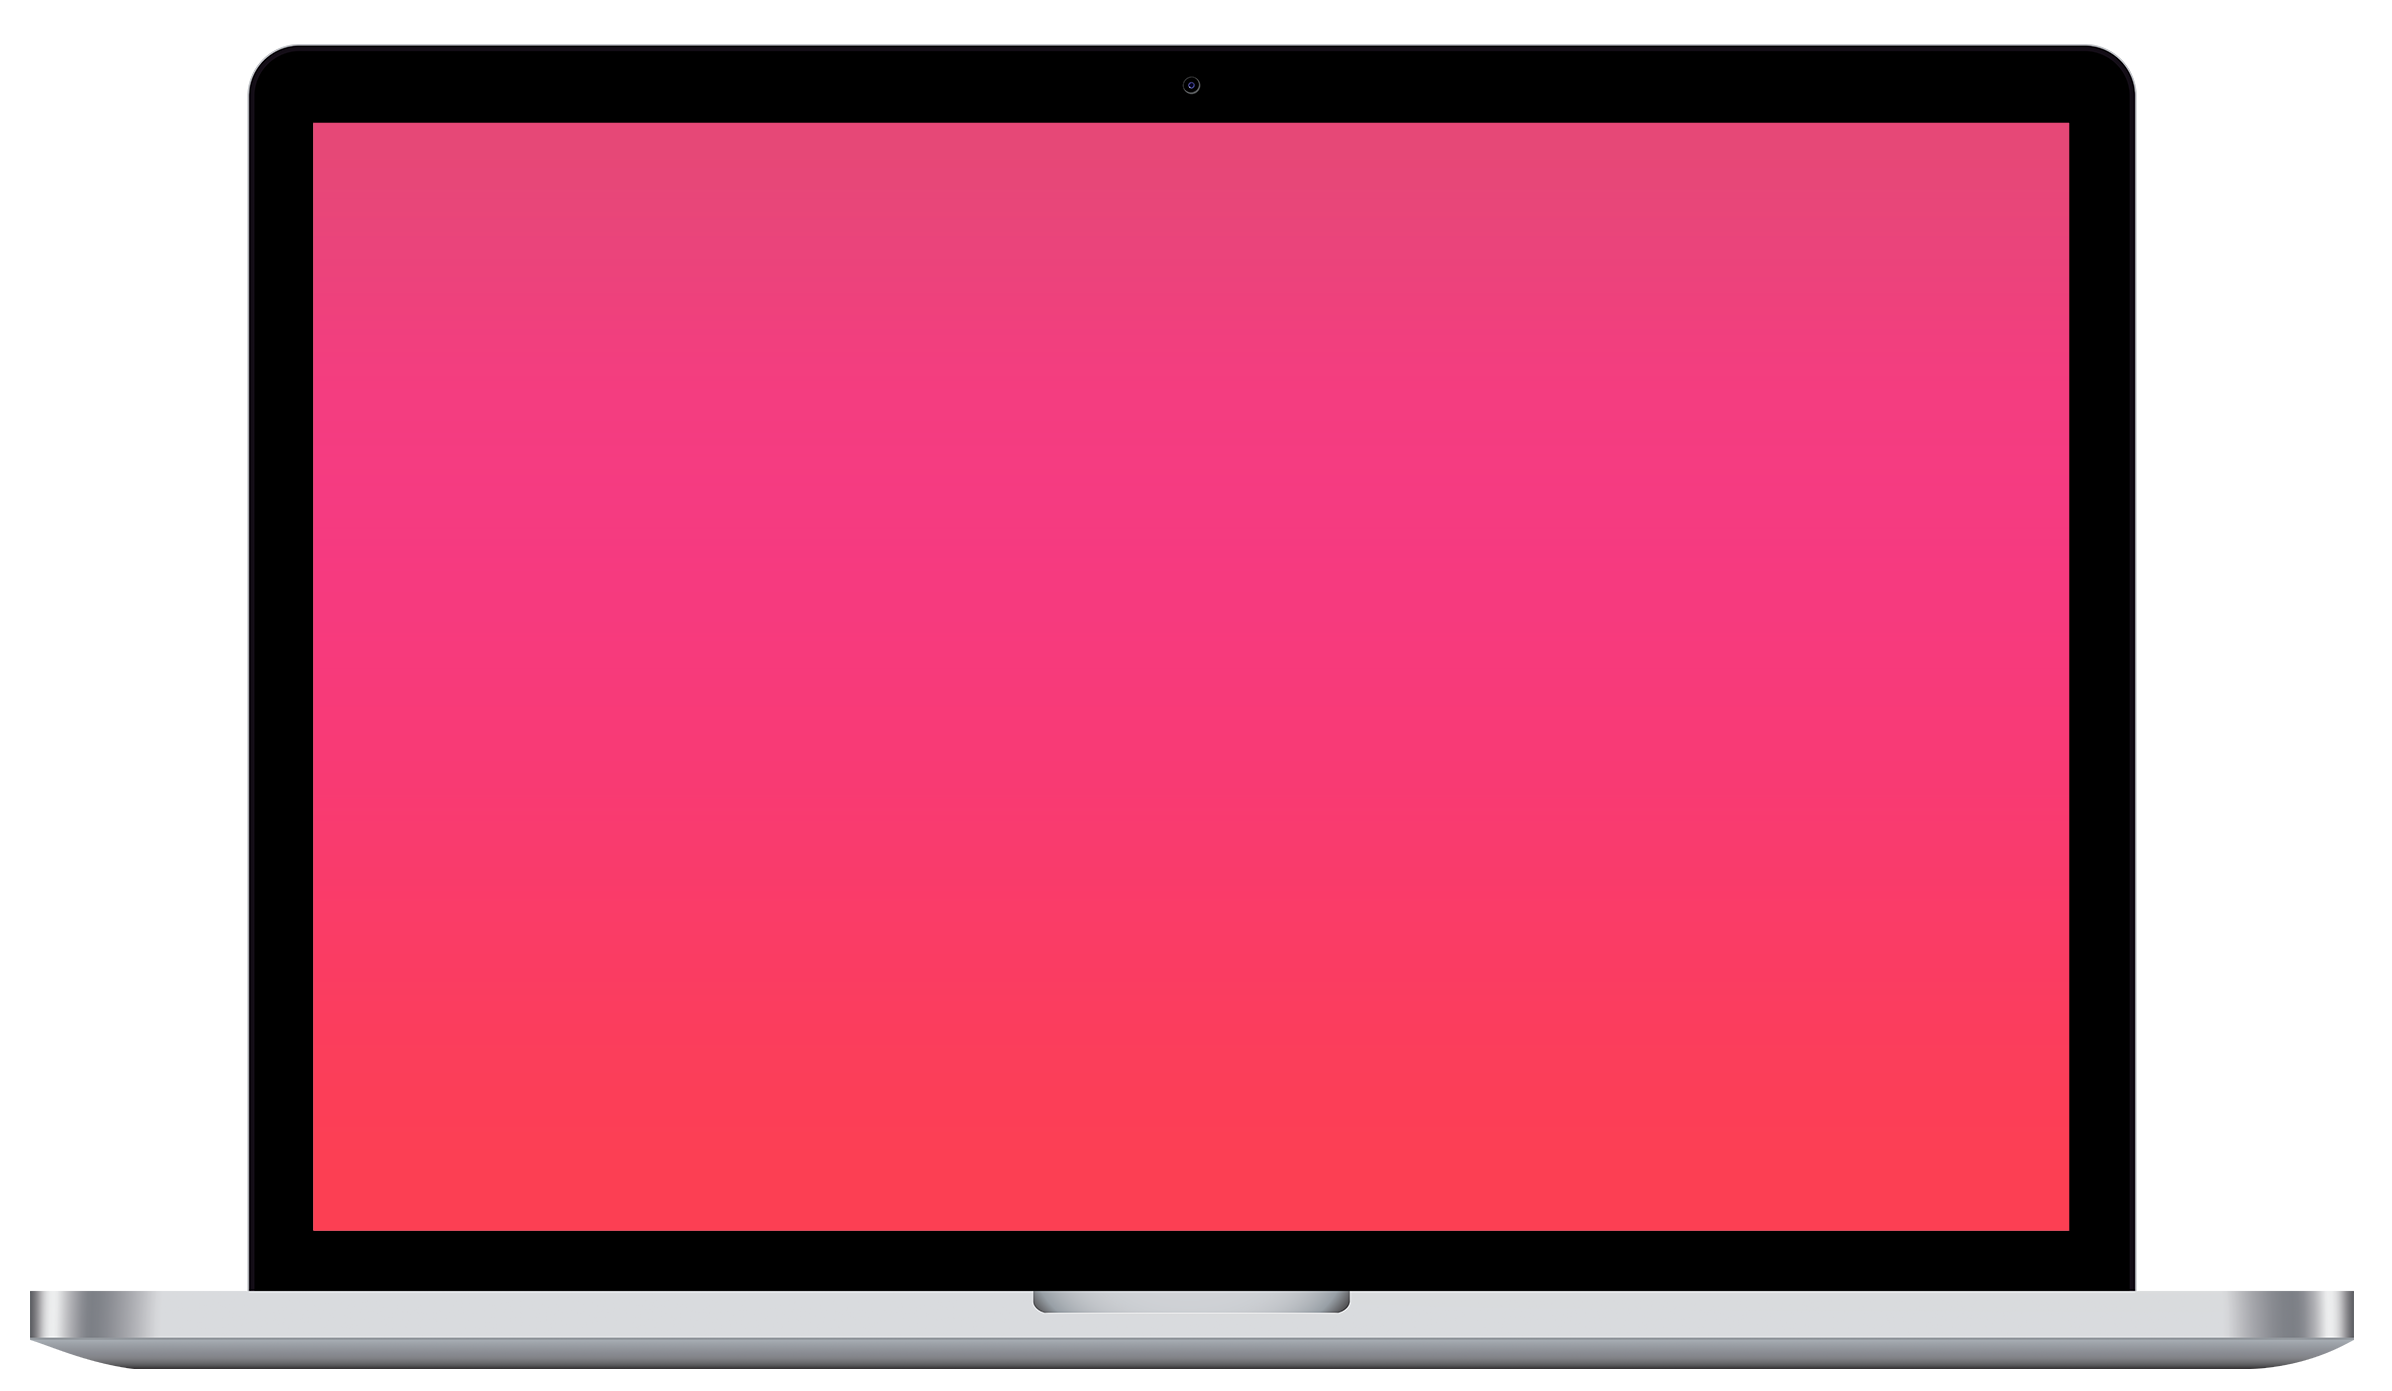
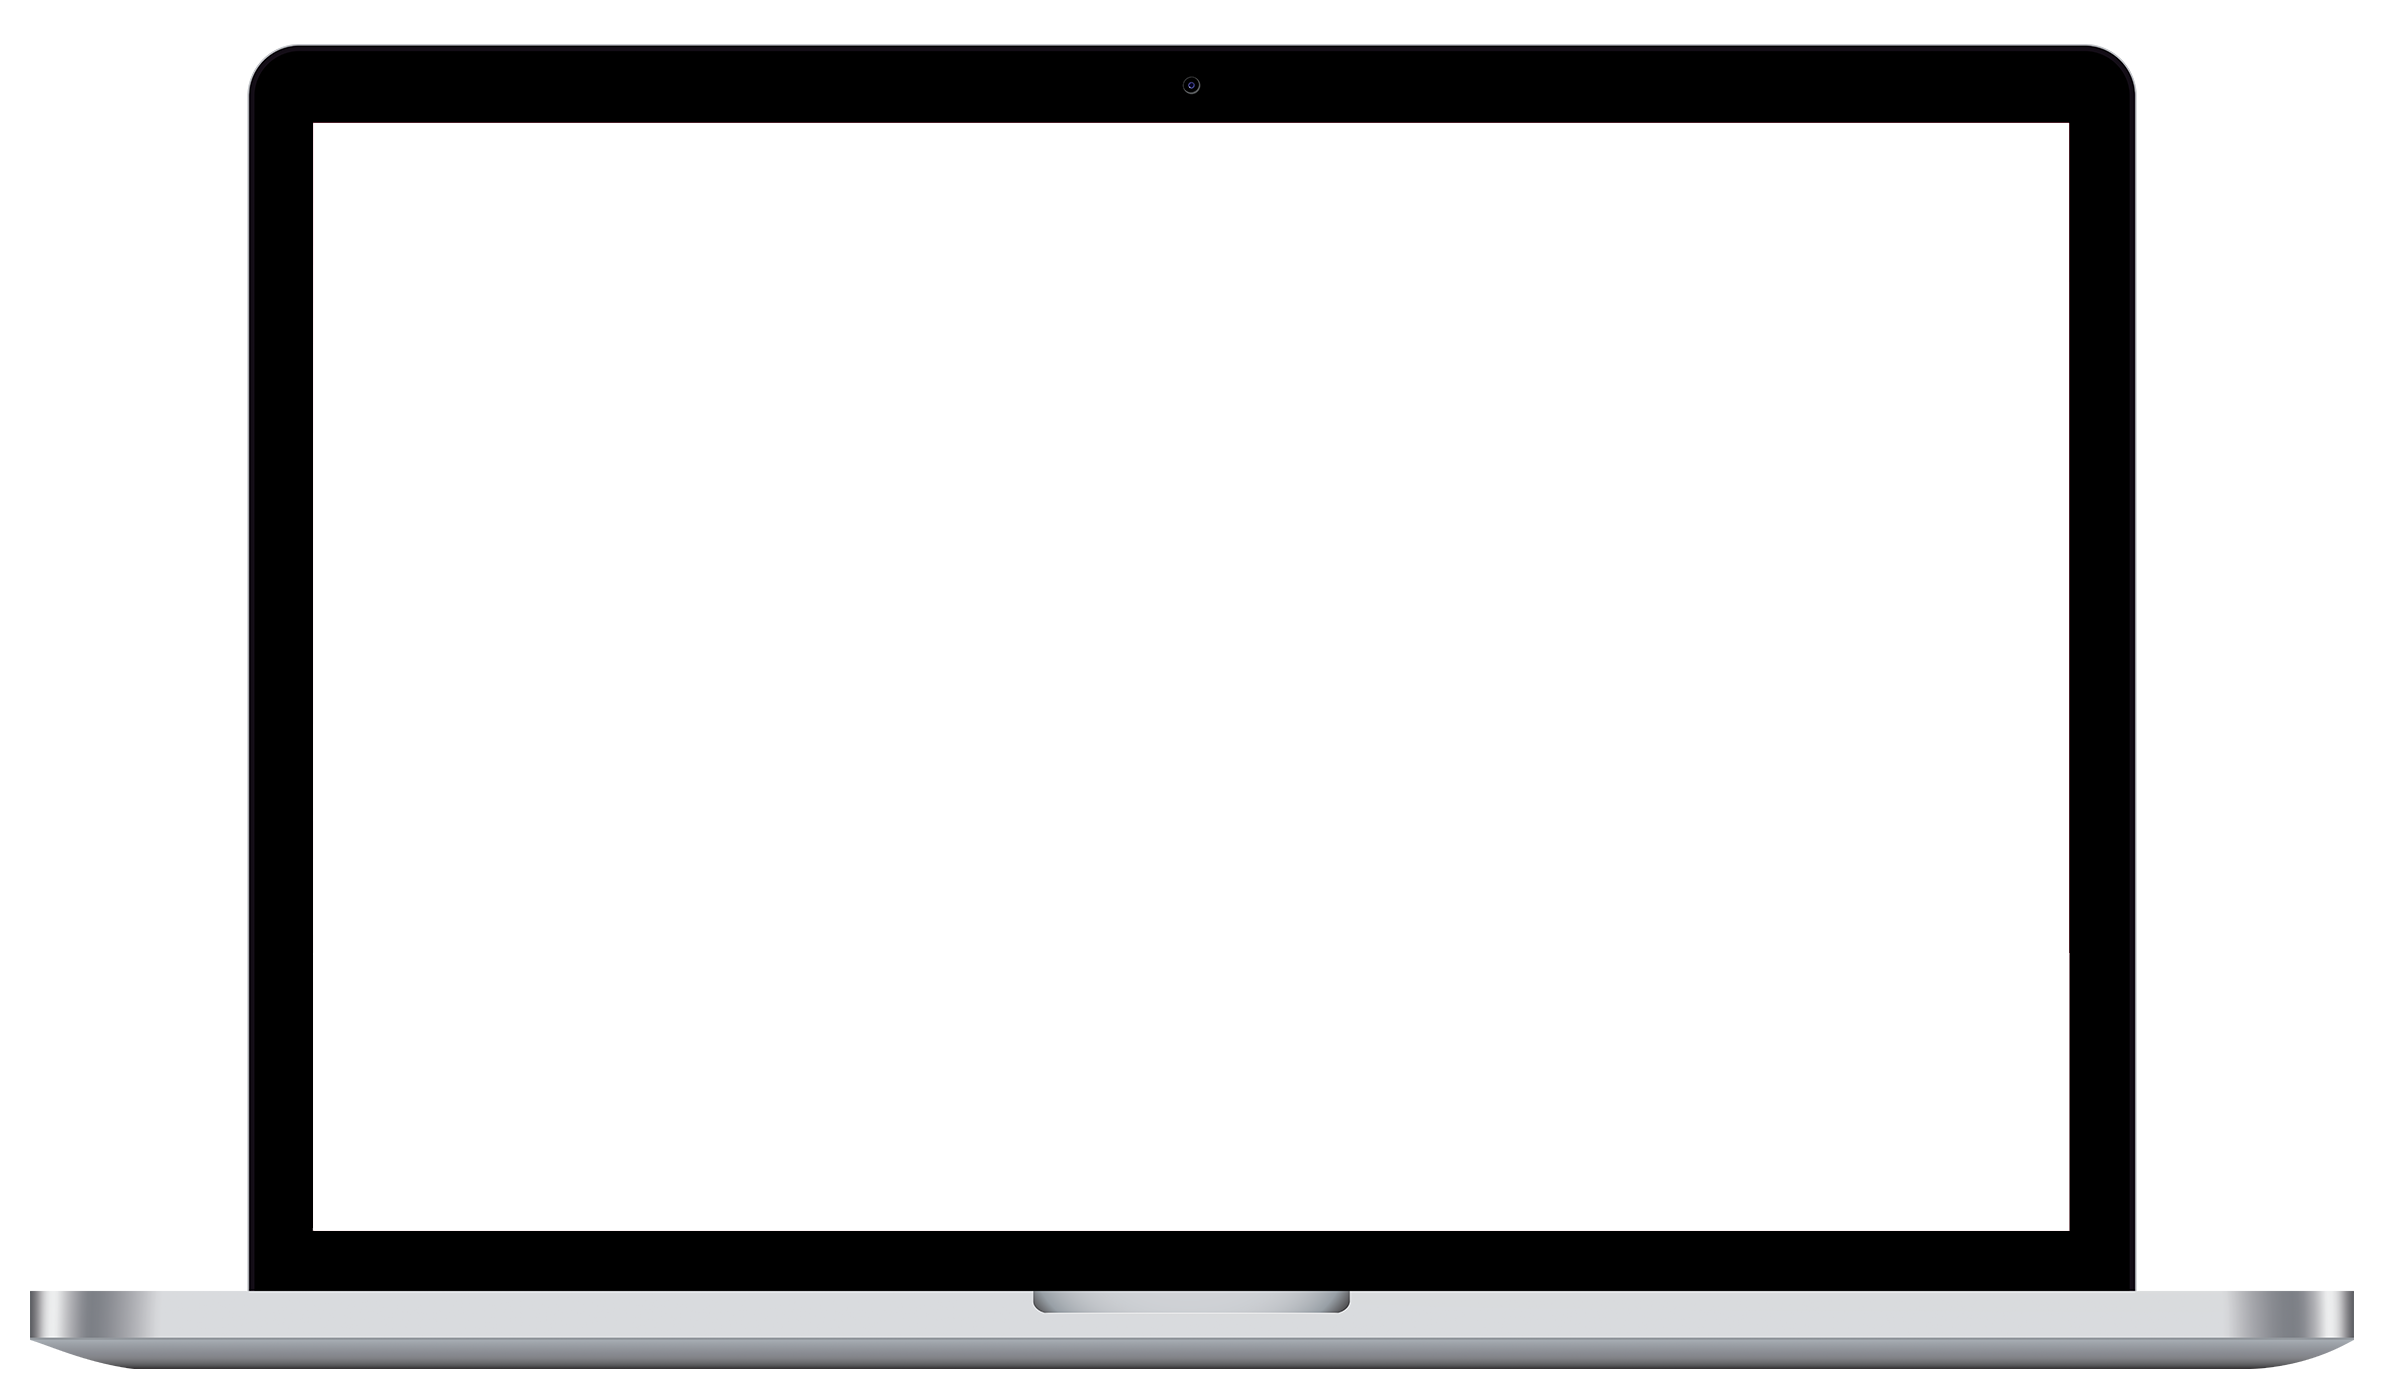
Screen mock clip mask

diff --git a/src/app/components/client_buildcard_pages/main/make-it-mine/make-it-mine.component.html b/src/app/components/client_buildcard_pages/main/make-it-mine/make-it-mine.component.html
@@ -211,20 +211,22 @@
                                                       class="tab-content d-flex align-items-center" id="myTabContent">
                                                       <div class="position-relative ct_w_fit_content mx-auto tab-pane fade show active"
                                                             id="pills-mob" role="tabpanel">
-                                                            <img loading="lazy"
+                                                            <!-- <img loading="lazy"
                                                                   src="assets/img/iPhone_14 Plus_ (new).png"
                                                                   class="ct_mobile_app_builder"
-                                                                  alt="AI app builder for mobile and web">
+                                                                  alt="AI app builder for mobile and web"> -->
 
                                                             <!-- <div [innerHTML]="htmlCode">
 
                                                             </div> -->
-                                                            <div class="ct_mob_overlay_top_cnt_12"
+                                                          <!-- <div class="ct_moc_clip_mask_main">
+                                                              <div class="ct_mob_overlay_top_cnt_12"
                                                                   style="width:227px; height:464px; border-radius: 27px; overflow:hidden;">
                                                                   <iframe #preview
-                                                                        style="width:427px; height:100vh; border:none; transform: scale(0.55); transform-origin: top left;"></iframe>
+                                                                        style="width:352px; height:94vh; border:none; transform: scale(0.55);border-radius: 30px; transform-origin: top left;"></iframe>
                                                             </div>
 
+                                                          </div> -->
                                                             <!-- <div class="ct_mob_overlay_top_cnt_12">
                                                                   <div #logoBox class="ct_add_logo_by_ai"
                                                                         [style]="projectsData?.logoStyle">
@@ -254,13 +256,15 @@
                                                             </div> -->
                                                       </div>
 
-                                                      <div class="position-relative ct_w_fit_content mx-auto tab-pane fade show"
+                                                      <div class="position-relative laptop-wrap ct_w_fit_content mx-auto tab-pane fade show"
                                                             style="width: 100%;" id="pillsdesk" role="tabpanel">
-                                                            <img [src]="'assets/img/Frame1437253511_new.png'"
+                                                            <!-- <img [src]="'assets/img/Frame1437253511_new.png'"
                                                                   alt="AI app builder for mobile and web"
-                                                                  style="width: 100%; height: 480px; object-fit: contain; border-radius: 10px;">
-                                                            <div class="ct_mob_overlay_top_cnt_12">
-                                                                  <div class="ct_add_logo_by_ai"
+                                                                  style="width: 100%; height: 480px; object-fit: contain; border-radius: 10px;"> -->
+                                                            <div class="ct_mob_overlay_top_cnt_12" id="laptop_screen">
+                                                                   <iframe #preview id="ct_iframe"
+                                                                        style="    width: 100%;height: 79vh;border: none;border-radius: 10px;transform-origin: top left;"></iframe>
+                                                                  <!-- <div class="ct_add_logo_by_ai"
                                                                         [style]="projectsData?.logoStyle">
                                                                         @if(!imagePreview){
                                                                         <svg width="12" height="12" viewBox="0 0 12 12"
@@ -284,8 +288,9 @@
                                                                   </div>
                                                                   <h6 class="text-white ct_fs_14">
                                                                         {{projectName}}
-                                                                  </h6>
+                                                                  </h6> -->
                                                             </div>
+                                                             <div class="base"></div>
                                                       </div>
                                                 </div>
                                                 <div class="mt-auto  pt-3">

diff --git a/src/assets/css/style.css b/src/assets/css/style.css
@@ -4042,14 +4042,23 @@ table.table.ct_compare_table {
   right: 0px;
 } */
 .ct_mob_overlay_top_cnt_12 {
-  position: absolute;
-  top: 22px;
-  left: 17px;
-  transform: translateY(0%);
-  text-align: center;
-  /* padding-top: 20px; */
-  /* padding-inline: 10px; */
-  right: 0px;
+    position: absolute;
+    top: 21px;
+    left: 18px;
+    transform: translateY(0%);
+    text-align: center;
+    /* padding-top: 20px; */
+    /* padding-inline: 10px; */
+    /* right: 0px; */
+    position: absolute;
+    top: 21px;
+    left: 0;
+    width: 427px;
+    height: 100vh;
+    border: none;
+    /* transform: scale(0.55); */
+    transform-origin: top left;
+    left: 16px;
 }
 
 /* step Form Css S */
@@ -4536,6 +4545,43 @@ ul.floatingBoxes li:nth-child(10) {
   }
 }
 
+
+.ct_moc_clip_mask_main{
+     position: relative;
+  width: 227px;
+  height: 464px;
+
+  /* CSS mask (Chrome/Safari/Edge + FF) */
+  -webkit-mask-image: url('../img/iPhone_14 Plus_ (new).png');
+  mask-image: url('../img/iPhone_14 Plus_ (new).png');
+  -webkit-mask-size: 100% 100%;
+  mask-size: 100% 100%;
+  -webkit-mask-repeat: no-repeat;
+  mask-repeat: no-repeat;
+  margin-inline: auto;
+
+  /* optional, back color if needed */
+  background: #000;
+  border-radius: 27px; /* if your mask also has rounded edges */
+}
+.ct_moc_clip_mask_main_desk{
+    position: relative;
+  width: 227px;
+  height: 464px;
+
+  /* CSS mask (Chrome/Safari/Edge + FF) */
+  -webkit-mask-image: url('../img/img/Frame1437253511_new.png');
+  mask-image: url('../img/Frame1437253511_new.png');
+  -webkit-mask-size: 100% 100%;
+  mask-size: 100% 100%;
+  -webkit-mask-repeat: no-repeat;
+  mask-repeat: no-repeat;
+  margin-inline: auto;
+
+  /* optional, back color if needed */
+  background: #000;
+  border-radius: 27px; /* if your mask also has rounded edges */
+}
 /* Loader page setion Css E */
 
 .ct_progress_btn_white {

diff --git a/src/app/components/client_buildcard_pages/main/make-it-mine/make-it-mine.component.css b/src/app/components/client_buildcard_pages/main/make-it-mine/make-it-mine.component.css
@@ -31,7 +31,55 @@
     height: 500px;
     object-fit: contain;
 }
+.laptop-wrap {
+ width: 80%;       /* responsive width */
+  max-width: 800px; /* control max size */
+  margin: 0px auto;
+  text-align: center;
+}
+/* .laptop-wrap img{
+    width: 100%;
+  height: auto;
+  display: block;
+} */
+#laptop_screen{
+position: relative;
+    background: #111;
+    border: 12px solid #222;
+    border-radius: 12px 12px 0 0;
+    overflow: hidden;
+    aspect-ratio: 16 / 10;
+    width: calc(100% - 50px);
+    height: 100%;
+    left: 0px;
+    right: 0px;
+    margin-inline: auto;
+    top: 0px;
+}
+#ct_iframe{
+    width: 100%;
+  height: 100%;
+  border: none;
+  display: block;
+  border-radius: 4px;
+}
 
+.laptop-wrap .base {
+  width: 100%;
+  height: 14px;
+  background: #222;
+  border-radius: 0 0 8px 8px;
+  margin: 0 auto;
+}
+
+.laptop-wrap .shadow {
+  width: 60%;
+  height: 6px;
+  background: rgba(0,0,0,0.3);
+  margin: 8px auto 0;
+  border-radius: 50%;
+  filter: blur(2px);
+}
 @media screen and (max-width:1400px){
     .ct_mobile_app_builder{
     width: 100%;

diff --git a/src/app/components/client_buildcard_pages/chatbot/chatbot.component.html b/src/app/components/client_buildcard_pages/chatbot/chatbot.component.html
@@ -15,7 +15,10 @@
 
 <div class="row">
     <div class="col-lg-8 mx-auto">
-        <div #scrollContainer class="ct_creative_msg_top_bar px-3">
+       <div style=" background-color: #fff9f99e;
+    padding: 30px;
+    border-radius: 10px;">
+         <div #scrollContainer class="ct_creative_msg_top_bar px-3">
             @for (item of messages; track $index) {
             <div class="d-flex align-items-center gap-2 mb-3" class="msg-row"
                 [ngClass]="item.sender === 'You' ? 'out' : 'in'">
@@ -36,13 +39,15 @@
                 </div>
             </div>
 
-            <footer class="chat-input">
+           
+        </div>
+         <footer class="chat-input">
                 <input [(ngModel)]="userInput" (keyup.enter)="sendMessage()" placeholder="Type your message…"
                     autocomplete="off" />
                 <button (click)="sendMessage()" aria-label="Send message">
                     ➤
                 </button>
             </footer>
-        </div>
+       </div>
     </div>
 </div>

diff --git a/src/app/services/api.service.ts b/src/app/services/api.service.ts
@@ -22,10 +22,12 @@ export class ApiService {
   _rate = signal<any>(null);
 
   constructor(private http: HttpClient, private route: Router, private auth: Auth) {
-    const user = JSON.parse(localStorage.getItem('userDetailCTI') || '{}');
-    if (user) {
+    const data:any = localStorage.getItem('userDetailCTI')
+    if(data !== 'undefined'){
+      const user = JSON.parse(data);
       this.getRates(user.currency);
     }
+    
   }
 
   getApi<T>(url: string): Observable<T> {

diff --git a/src/app/components/client_buildcard_pages/chatbot/chatbot.component.css b/src/app/components/client_buildcard_pages/chatbot/chatbot.component.css
@@ -247,8 +247,6 @@ span.sender {
     height: auto;
     overflow-y: auto;
     max-height: calc(100vh - 200px);
-    background-color: #fff9f99e;
-    padding: 30px;
-    border-radius: 10px;
+   
 }
 
